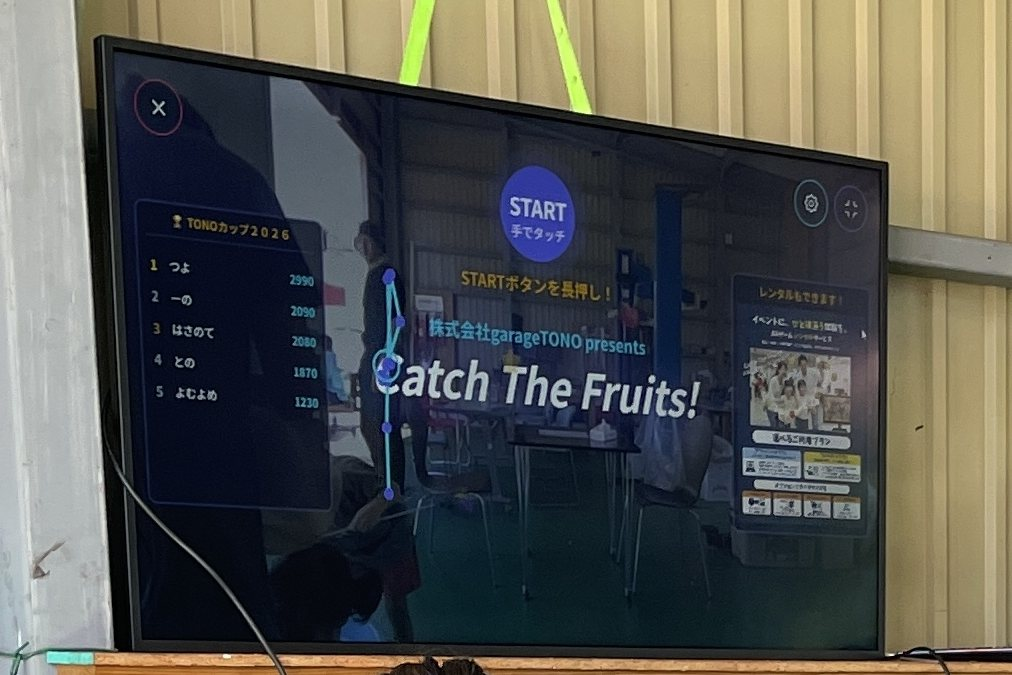
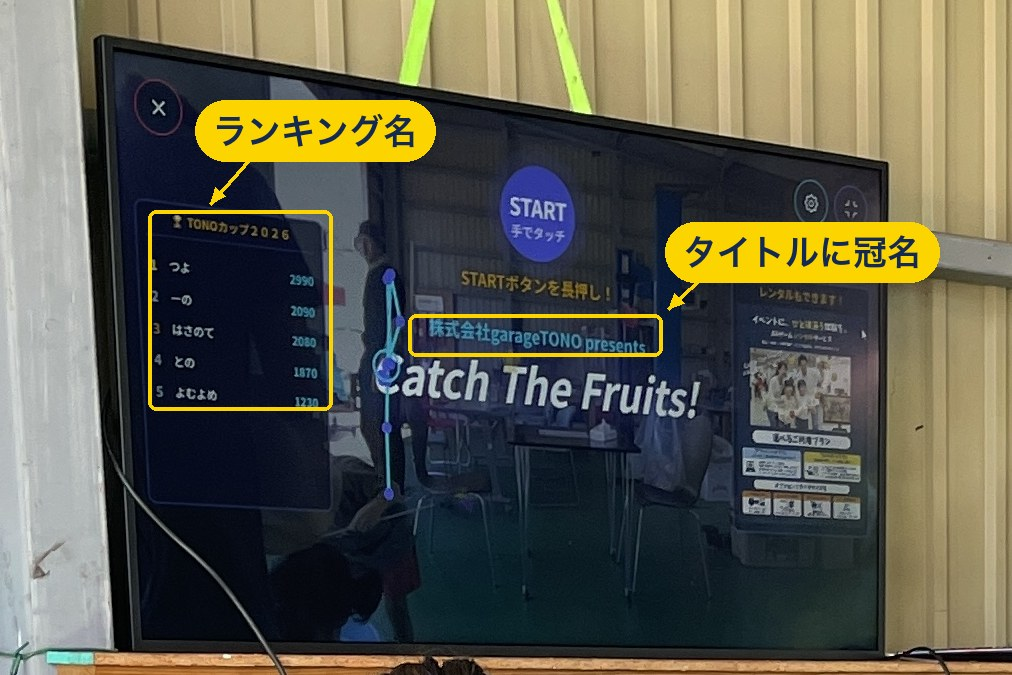
Annotate the naming rights screenshot with callouts
Adds yellow callout boxes, arrows and labels marking the ranking name
and the title prefix on the game screen, so the naming rights option is
readable without prior knowledge. Updates the alt text to describe the
callouts.

Changed region(s): [[0.1225, 0.1244, 0.4289, 0.6222], [0.6433, 0.3111, 0.9496, 0.4356], [0.3982, 0.4356, 0.6739, 0.5289]]

diff --git a/event-ar/index.html b/event-ar/index.html
@@ -291,7 +291,7 @@
                         <figcaption>1人ずつ交代しながら、体を動かして遊びます。来場者のスマホは使いません。</figcaption>
                     </figure>
                     <figure class="case-story__thumb">
-                        <img src="/assets/制作実績/tono-cup-03.jpg" alt="冠名「株式会社garageTONO presents」とランキング名「TONOカップ２０２６」を表示した、Catch The Fruits! のタイトル画面" loading="lazy">
+                        <img src="/assets/制作実績/tono-cup-03.jpg" alt="Catch The Fruits! のタイトル画面。冠名「株式会社garageTONO presents」とランキング名「TONOカップ２０２６」の表示箇所を、それぞれ枠で示している" loading="lazy">
                         <figcaption>タイトルとランキング名を、イベントの名前に差し替えたゲーム画面。</figcaption>
                     </figure>
                 </div>
